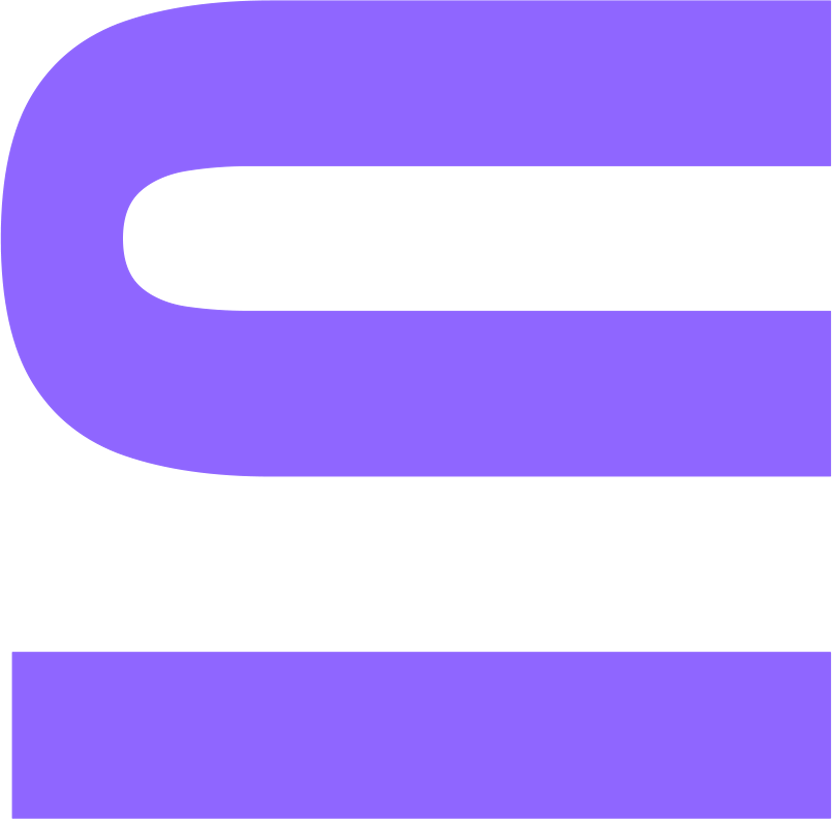
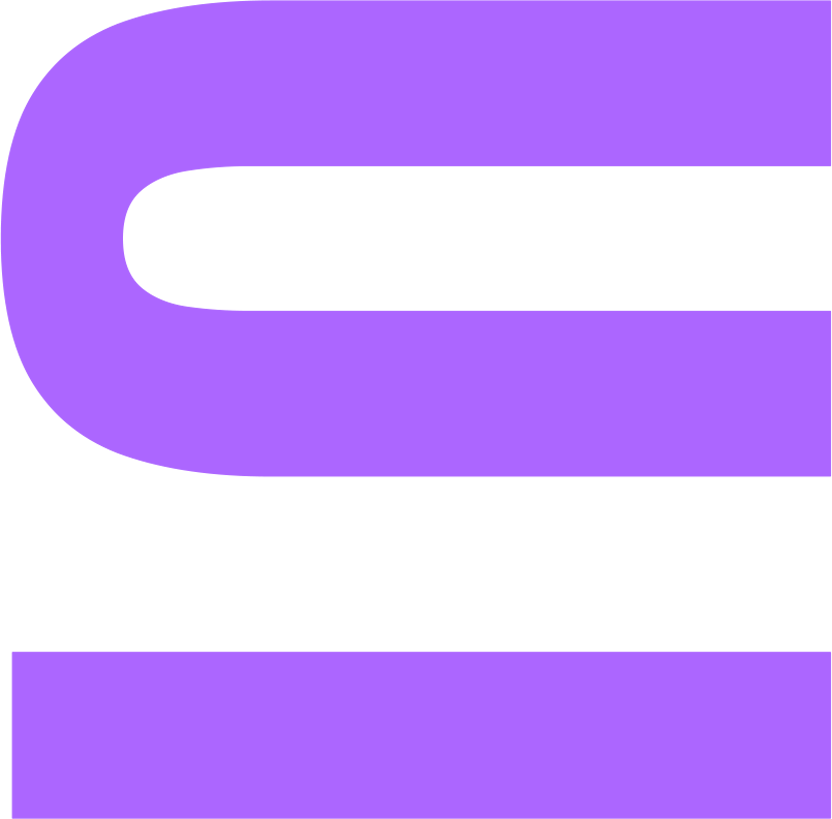
Add hidden overflow on some images + chenge UI sign colors

diff --git a/components/Course/Course.js b/components/Course/Course.js
@@ -2,18 +2,18 @@ import Cards from "./Cards";
 
 const Course = () => {
   return (
-    <div className='relative'>
-      <div className='container mx-auto my-32 font-krub relative'>
-        <div className='absolute text-[94px] text-mainPurple -top-1/4 left-[70%]'>{'\u2b24'}</div>
-        <div className='flex justify-between font-bold items-end'>
-          <h2 className='text-[116px] uppercase leading-none'>ui.<span className='capitalize font-thin text-[38px] ms-7 tracking-wide'>course</span></h2>
-          <p className='text-[16px] font-bold uppercase relative'><span className='absolute -left-10 -top-5 text-[40px]'>{'\u25A0'}</span>start <span className='block'>learning</span></p>
-        </div>
-        <Cards />
+
+    <div className='container mx-auto py-32 font-krub relative overflow-hidden'>
+      <div className='absolute text-[94px] text-mainPurple -top-5 left-[70%]'>{'\u2b24'}</div>
+      <div className='flex justify-between font-bold items-end'>
+        <h2 className='text-[116px] uppercase leading-none'>ui.<span className='capitalize font-thin text-[38px] ms-7 tracking-wide'>course</span></h2>
+        <p className='text-[16px] font-bold uppercase relative'><span className='absolute -left-10 -top-5 text-[40px]'>{'\u25A0'}</span>start <span className='block'>learning</span></p>
       </div>
-      <div className='absolute text-[94px] text-mainPurple -bottom-10 -translate-x-1/2'>{'\u2b24'}</div>
-      <div className='absolute text-[94px] text-mainPurple -bottom-10 right-0 translate-x-1/2 '>{'\u2b24'}</div>
+      <Cards />
+      <div className='absolute text-[94px] text-mainPurple bottom-24 -translate-x-1/2'>{'\u2b24'}</div>
+      <div className='absolute text-[94px] text-mainPurple bottom-24 right-0 translate-x-1/2 '>{'\u2b24'}</div>
     </div>
+
   )
 }
 export default Course;

diff --git a/components/Register/Register.js b/components/Register/Register.js
@@ -1,17 +1,18 @@
 import Image from "next/image";
 import registerPerson from '../../public/register-person.png'
-import UIsign from '../../public/ui-sign.png'
 import Button from "../common/Button";
 import whiteArrowRight from '../../public/white-arrow-right.png'
 
 const Register = () => {
   return (
     <div className='relative h-[430px] w-screen font-krub'>
-      <Image
-        src={registerPerson}
-        alt="person"
-        className="float-right me-44 -z-10"
-      />
+      <div className='relative container mx-auto'>
+        <Image
+          src={registerPerson}
+          alt="person"
+          className="absolute right-0"
+        />
+      </div>
       <div className='absolute top-0 left-0 h-full bg-registerColor/[0.7] w-screen' >
         <div className='container mx-auto flex justify-between h-full'>
           <div className='w-2/5 uppercase text-main text-center my-auto'>

diff --git a/components/HowItWorks/HowItWorks.js b/components/HowItWorks/HowItWorks.js
@@ -5,7 +5,7 @@ import Image from "next/image"
 
 const HowItWorks = () => {
   return (
-    <div className='container mx-auto font-krub mb-40'>
+    <div className='container mx-auto font-krub pb-20 mb-20 overflow-hidden'>
       <div className='relative float-right font-bold tracking-widest before:content-[""] before:top-4 before:-left-24 before:absolute before:border-solid before:border-[3px] before:w-[66px]'>
         <p className='text-[21px]'>2022</p>
       </div>
@@ -43,7 +43,7 @@ const HowItWorks = () => {
           <Image
             src={UIsign}
             alt="ui sign"
-            className="opacity-60 absolute -right-[55%] top-0 z-10 scale-[0.95]"
+            className="absolute -right-[55%] top-0 z-10 scale-[0.95]"
           />
           <Image
             src={howItWorksPerson}

diff --git a/components/Subscribe/Subscribe.js b/components/Subscribe/Subscribe.js
@@ -5,13 +5,13 @@ import subscribePerson from '../../public/subscribe-person.png'
 
 const Subscribe = () => {
   return (
-    <div className='container mx-auto flex font-krub font-bold'>
+    <div className='container mx-auto flex font-krub font-bold overflow-hidden'>
       <div className='w-1/2 relative'>
         <div className='absolute bottom-28 -left-60'>
           <Image
             src={UIsign}
             alt="ui sign"
-            className="opacity-60 -rotate-180 scale-[1.20]"
+            className="-rotate-180 scale-[1.20]"
           />
         </div>
         <Image

diff --git a/components/Intro/Intro.js b/components/Intro/Intro.js
@@ -8,11 +8,11 @@ import Button from '../common/Button'
 const Intro = () => {
   return (
     <div className='relative'>
-      <div className='container mx-auto relative h-[870px]'>
+      <div className='container mx-auto relative h-[870px] overflow-hidden'>
         <Image
           src={UiSign}
           alt="ui sign"
-          className="opacity-60 absolute -right-10 top-0 z-10"
+          className="absolute -right-10 top-0 z-10"
         />
         <Image
           src={introPerson}

diff --git a/components/WhyUs/WhyUs.js b/components/WhyUs/WhyUs.js
@@ -12,7 +12,7 @@ const WhyUs = () => {
             <Image
               src={UIsign}
               alt="ui sign"
-              className="opacity-60 -rotate-90 z-10 scale-50"
+              className="-rotate-90 z-10 scale-50"
             />
             <div className='absolute right-[12%] bottom-1/4 text-[54px] text-mainPurple'>{'\u2b24'}</div>
           </div>

diff --git a/components/Explore/Explore.js b/components/Explore/Explore.js
@@ -5,7 +5,7 @@ import arrowDown from '../../public/arrow-down.png'
 
 const Explore = () => {
   return (
-    <div className='container mx-auto my-32 relative h-[720px]'>
+    <div className='container mx-auto mt-32 relative h-[720px]'>
       <div className='absolute left-1/2 -translate-x-1/2'>
         <div className='relative'>
           <Image
